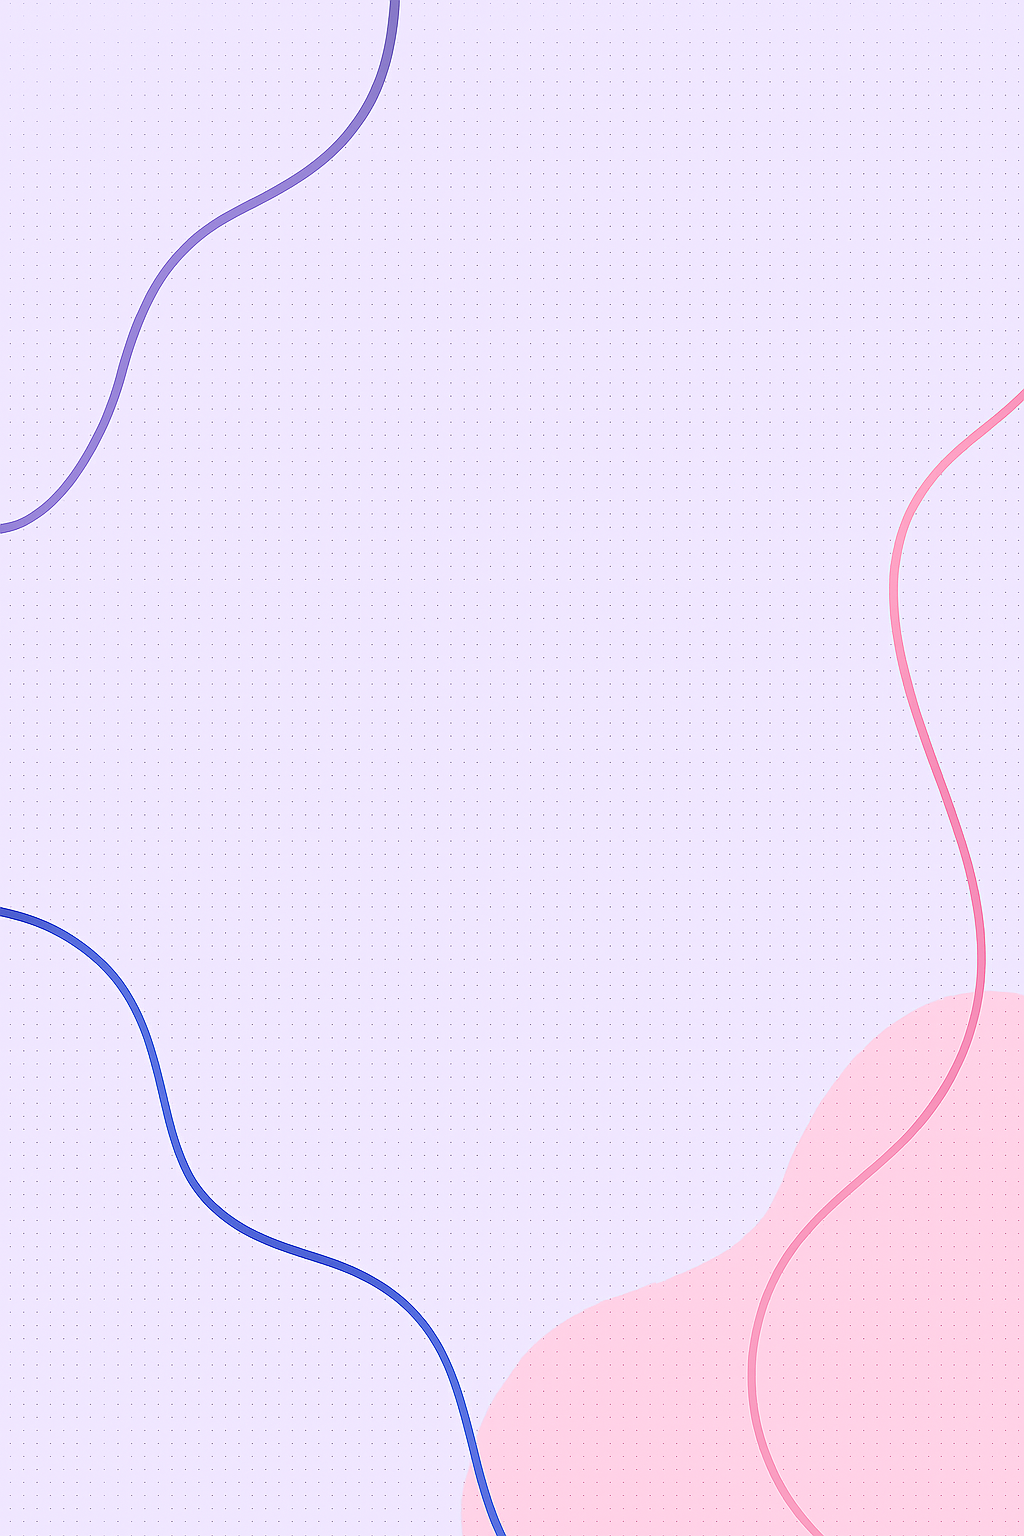
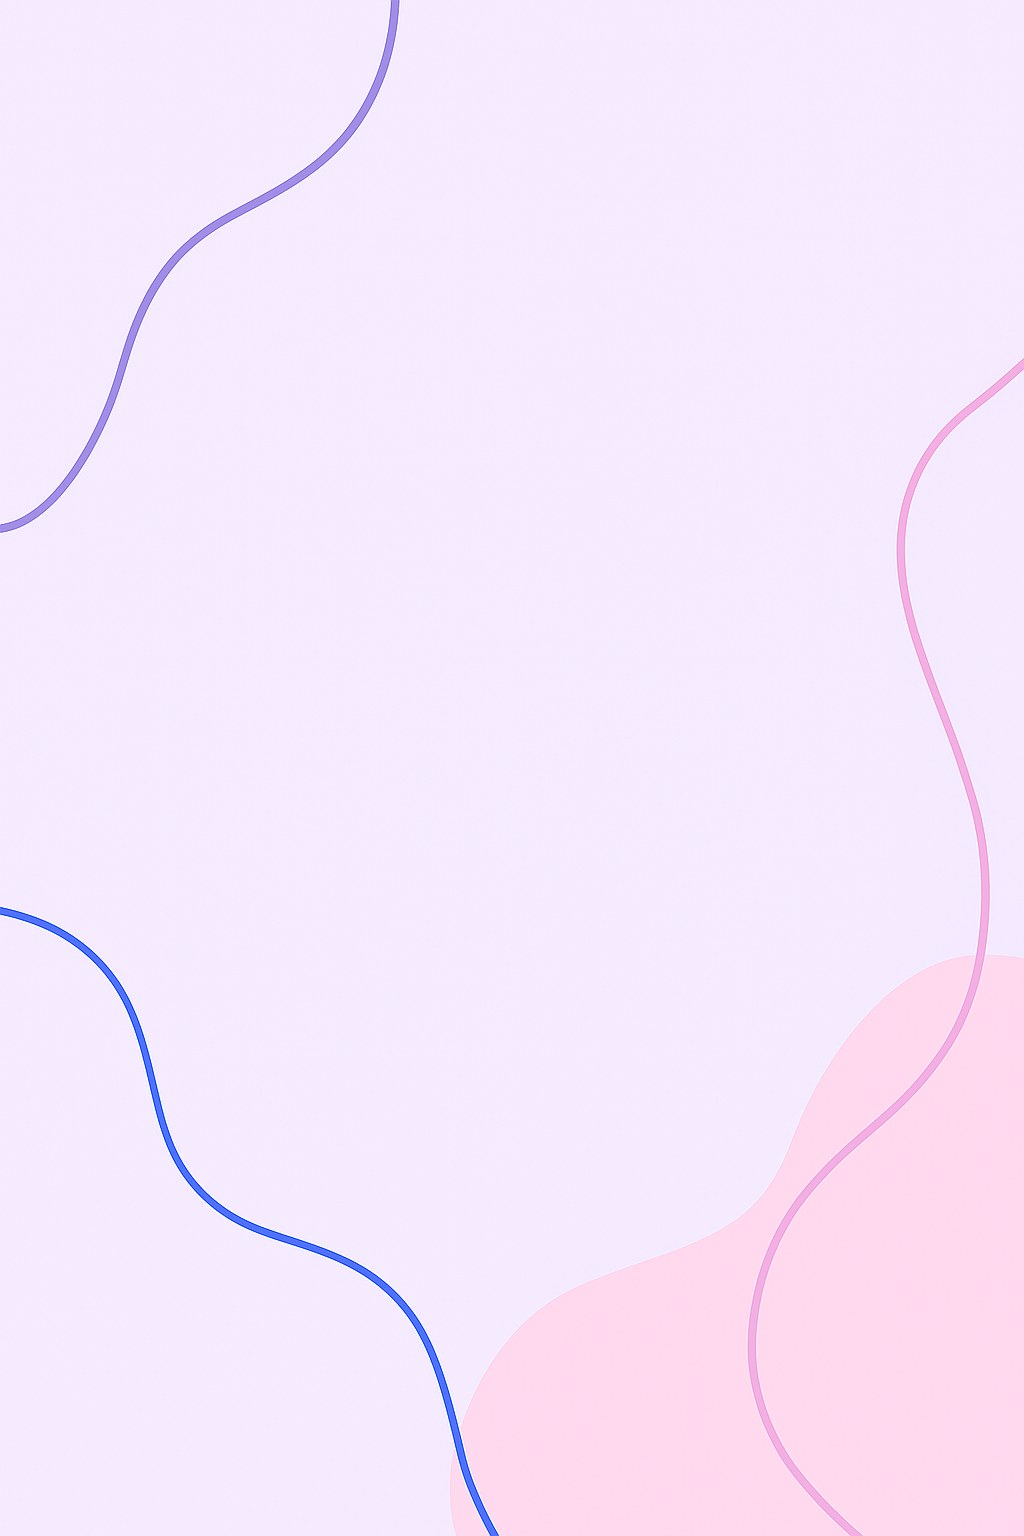
update design

diff --git a/NearBuyFE/app/(dashboard)/(tabs)/profile.tsx b/NearBuyFE/app/(dashboard)/(tabs)/profile.tsx
@@ -95,7 +95,7 @@ export default function ProfileScreen() {
         <TouchableOpacity onPress={() => setIsEditing(true)}>
             <View style={styles.nameRow}>
                 
-            <FontAwesome5 name="pencil-alt" size={18} color="gray" style={{ marginLeft: 8 }} />
+            <FontAwesome5 name="pencil-alt" size={20} color="#B25FC3" style={{ marginLeft: 8 }} />
                 <Text style={styles.name}>{displayName ? displayName : "User Name"}</Text>
             </View>
         </TouchableOpacity>)}
@@ -106,6 +106,8 @@ export default function ProfileScreen() {
         <Text style={styles.settingLabel}>Enable location-based notifications by default</Text>
         <Switch
           value={locationEnabled}
+          trackColor={{ false: '#ccc', true: '#007AFF' }}
+          //thumbColor={isLocationEnabled ? '#fff' : '#f4f3f4'}
           onValueChange={async (val) => {
             if (val) {
               const granted = await Utils.requestForegroundLocationPermission();
@@ -131,7 +133,7 @@ export default function ProfileScreen() {
       {/* Logout Button */}
       <TouchableOpacity onPress={handleLogout} style={styles.logoutButton}>
       <View style={styles.nameRow}>
-      <MaterialCommunityIcons name="logout-variant" size={24} color="gray" />
+      <MaterialCommunityIcons name="logout-variant" size={24} color="red" />
         <Text style={styles.logoutText}>Log Out</Text>
         </View>
       </TouchableOpacity>
@@ -164,7 +166,7 @@ const styles = StyleSheet.create({
     name: {
       fontSize: 24,
       fontWeight: 'bold',
-      marginLeft: 13,
+      marginLeft: 8,
       
     },
     settingRow: {
@@ -187,7 +189,7 @@ const styles = StyleSheet.create({
     logoutText: {
       color: 'red',
       fontWeight: 'bold',
-      marginLeft: 12,
+      marginLeft: 6,
       fontSize: 15,
     },
 

diff --git a/NearBuyFE/app/(dashboard)/(list)/listSettings.tsx b/NearBuyFE/app/(dashboard)/(list)/listSettings.tsx
@@ -15,6 +15,7 @@ import {
   Platform,
   TouchableWithoutFeedback,
   Keyboard,
+  
 } from 'react-native';
 import { useLocalSearchParams, useRouter } from 'expo-router';
 import { SafeAreaView } from 'react-native-safe-area-context';
@@ -138,7 +139,10 @@ export default function ListSettingsScreen() {
   }, []);
   
   return (   
+    
     <>
+    <ImageBackground source={require('../../../assets/images/loginBG.png')} resizeMode="cover" style={styles.image}>
+
      <View style={styles.headerRow}>
     <TouchableOpacity onPress={() => router.back()} style={styles.backButton}>
     <Ionicons name="chevron-back-outline" size={24} color="#007AFF" />
@@ -289,6 +293,7 @@ export default function ListSettingsScreen() {
           </View>
           
           </TouchableWithoutFeedback>
+          </ImageBackground>
           </>
   );
 }
@@ -298,15 +303,16 @@ const styles = StyleSheet.create({
     flex: 1,
     paddingTop: 100,
     paddingHorizontal: 20,
+    //backgroundColor: "#FBF8FF",
   },
   title: {
-    fontSize: 35,
+    fontSize: 24,
     fontWeight: 'bold',
     marginBottom: 40,
-    marginLeft: 10,
+    textAlign: 'center',
   },
   subtitle: {
-    fontSize: 20,
+    fontSize: 30,
     textAlign: 'center',
     fontWeight: 'bold',
     marginBottom: 30,
@@ -387,6 +393,8 @@ const styles = StyleSheet.create({
     fontSize: 18,
     color: '#007AFF',
     fontWeight: '500',
+  },
+  image: {
+    flex: 1,
   }
-  
 });

diff --git a/NearBuyFE/app/(auth)/register.tsx b/NearBuyFE/app/(auth)/register.tsx
@@ -139,7 +139,7 @@ export default function RegisterScreen() {
         <Switch
           value={isLocationEnabled}
           onValueChange={setIsLocationEnabled}
-          trackColor={{ false: '#ccc', true: '#4CAF50' }}
+          trackColor={{ false: '#ccc', true: '#007AFF' }}
           thumbColor={isLocationEnabled ? '#fff' : '#f4f3f4'}
         />
       </View>
@@ -207,16 +207,16 @@ const styles = StyleSheet.create({
     width: 200,
     // Shadow for iOS
     shadowColor: '#000',
-    shadowOffset: { width: 0, height: 4 },
-    shadowOpacity: 0.5,
-    shadowRadius: 3,
+    shadowOffset: { width: 1, height: 3 },
+    shadowOpacity: 0.3,
+    shadowRadius: 2,
   
     // Shadow for Android
     elevation: 5,
   },
   buttonText: {
-    color: '#fff',
-    fontSize: 16,
+    color: 'white',
+    fontSize: 15,
     fontWeight: 'bold',
   },
   footer: { 

diff --git a/NearBuyFE/app/(auth)/login.tsx b/NearBuyFE/app/(auth)/login.tsx
@@ -121,16 +121,16 @@ const styles = StyleSheet.create({
     width: 200,
     // Shadow for iOS
     shadowColor: '#000',
-    shadowOffset: { width: 0, height: 4 },
-    shadowOpacity: 0.5,
-    shadowRadius: 3,
+    shadowOffset: { width: 1, height: 3 },
+    shadowOpacity: 0.3,
+    shadowRadius: 2,
   
     // Shadow for Android
     elevation: 5,
   },
   buttonText: {
-    color: '#fff',
-    fontSize: 16,
+    color: 'white',
+    fontSize: 15,
     fontWeight: 'bold',
   },
   footer: {
